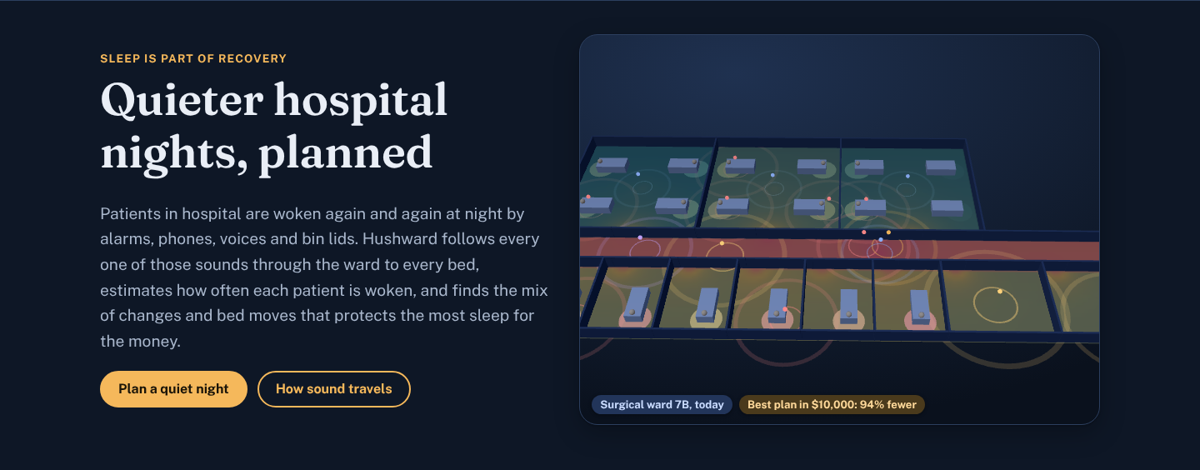
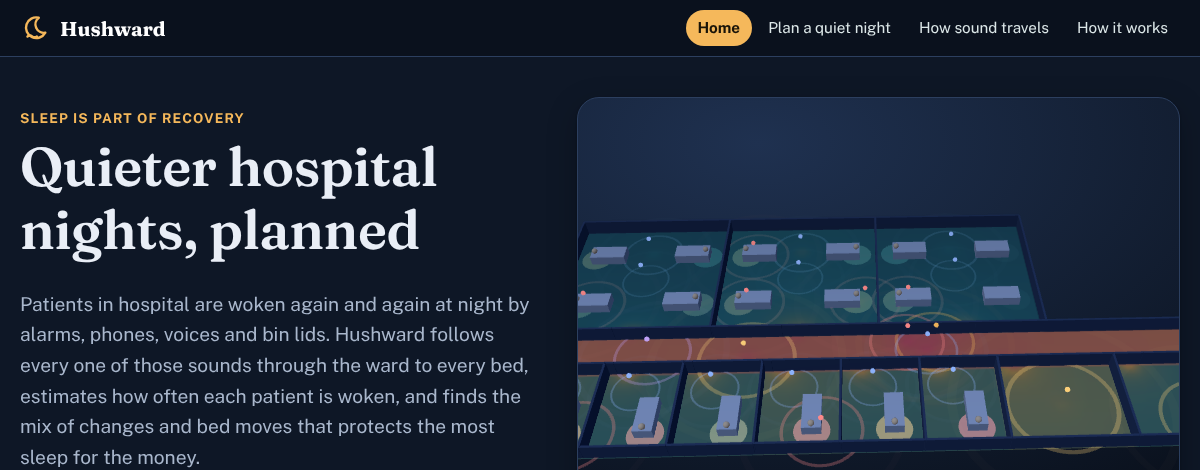
Surgical ward: noise from other patients and single-room checks; rebuilt site and screenshots

diff --git a/site/method.html b/site/method.html
@@ -47,10 +47,10 @@
   </ul>
 
   <h2>3. Between rooms</h2>
-  <p>Sound leaves a room through its doorway. The power passing through an opening in an evenly filled room is the level there less 6 dB plus ten times the log of the opening's area. That power then travels along the corridor to another room's doorway, and into that room. A closed door takes off a further 25 dB, typical of a solid ward door with gaps around it. Sound through walls is ignored: in most wards the doorways let through far more.</p>
+  <p>Sound leaves a room through its doorway. The power passing through an opening in an evenly filled room is the level there less 6 dB plus ten times the log of the opening's area. That power then travels along the corridor to another room's doorway, and into that room. A closed door takes off a further 18 dB, typical of a ward door with ventilation gaps and a vision panel. Sound through walls is ignored: in most wards the doorways let through far more.</p>
 
   <h2>4. Waking</h2>
-  <p>Each event's level at a pillow becomes a chance of waking from an S-shaped curve. The curve has a level at which half of such events wake someone, and a spread. Electronic alarms wake people at lower levels than voices (Buxton et al., 2012). Patients who wake more easily (after surgery, at risk of delirium, at the end of life, light sleepers) have the curve moved a few decibels lower. Their arousals are also weighted by how much an awakening matters, which is a clinical priority to set, not a measurement. The expected number of arousals in a night is the sum over every event.</p>
+  <p>Each event's level at a pillow becomes a chance of waking from an S-shaped curve. The curve has a level at which half of such events wake someone, and a spread. Electronic alarms wake people at lower levels than voices (Buxton et al., 2012). The curves are set so that an alarm peaking at about 55 dB at the pillow wakes roughly one sleeper in eight and a voice about one in twenty, in the range field studies of noise and sleep report, and an ordinary patient on the example wards is woken around seven times a night. Patients who wake more easily (after surgery, at risk of delirium, at the end of life, light sleepers) have the curve moved a few decibels lower. Their arousals are also weighted by how much an awakening matters, which is a clinical priority to set, not a measurement. The expected number of arousals in a night is the sum over every event.</p>
   <p>The curve's numbers are illustrative values chosen to sit within the published range for hospital sounds. Hushward is for comparing options; it doesn't predict any one patient's night.</p>
 
   <h2>5. Who sleeps where: the Hungarian algorithm</h2>
@@ -61,7 +61,7 @@
 
   <h2>How it's tested</h2>
   <ul>
-    <li><strong>Physics with known answers.</strong> In a nearly fully absorbing room, doubling the distance lowers the level by 6 dB. The reverberation time matches Sabine's formula. Closing a door lowers every sound from another room by exactly its 23 dB of extra loss. The core's WebAssembly room model matches an independent JavaScript version to a hundredth of a decibel.</li>
+    <li><strong>Physics with known answers.</strong> In a nearly fully absorbing room, doubling the distance lowers the level by 6 dB. The reverberation time matches Sabine's formula. Closing a door lowers every sound from another room by exactly its 16 dB of extra loss. The core's WebAssembly room model matches an independent JavaScript version to a hundredth of a decibel.</li>
     <li><strong>Against brute force.</strong> On random small wards, the bed assignment matches trying every possible arrangement of patients, and the best plan matches trying every combination of changes by evaluating each one directly.</li>
     <li><strong>The website.</strong> Every page is checked in a real browser at phone, tablet and desktop sizes for errors, sideways scrolling and overlapping text. Hostile ward files are loaded on purpose.</li>
   </ul>

diff --git a/site/assets/js/model.js b/site/assets/js/model.js
@@ -7,11 +7,11 @@ export const LIMITS = { rooms: 24, beds: 24, sources: 48, options: 14, effects: 
  *  events cause an awakening, and how quickly the chance rises around it. Illustrative values in
  *  the range reported for hospital sounds; electronic alarms wake people at lower levels. */
 export const KINDS = {
-  alarm: { name: 'Equipment alarm', l50: 55, slope: 5 },
-  talk: { name: 'Voices', l50: 62, slope: 6 },
-  phone: { name: 'Phone', l50: 58, slope: 5 },
-  impact: { name: 'Bang or clatter', l50: 58, slope: 5 },
-  trolley: { name: 'Trolley or cart', l50: 62, slope: 6 },
+  alarm: { name: 'Equipment alarm', l50: 69, slope: 7 },
+  talk: { name: 'Voices', l50: 76, slope: 7 },
+  phone: { name: 'Phone', l50: 72, slope: 7 },
+  impact: { name: 'Bang or clatter', l50: 72, slope: 7 },
+  trolley: { name: 'Trolley or cart', l50: 76, slope: 7 },
 };
 
 /** Patients' needs: how much an awakening matters (weight) and how much lower their threshold
@@ -31,7 +31,7 @@ const FLOOR_ALPHA = { bay: 0.2, room: 0.15, corridor: 0.04 };
 const WALL_ALPHA = { bay: 0.1, room: 0.06, corridor: 0.05 }; // bays have curtains
 const DOOR_HEIGHT = 2.1;
 const OPEN_LOSS = 2; // dB: the open doorway itself is in the aperture formula; a little diffraction
-const CLOSED_LOSS = 25; // dB: a typical solid ward door with gaps
+const CLOSED_LOSS = 18; // dB: a ward door with ventilation gaps and a vision panel
 
 class WardError extends Error {}
 const fail = (msg) => { throw new WardError(msg); };
